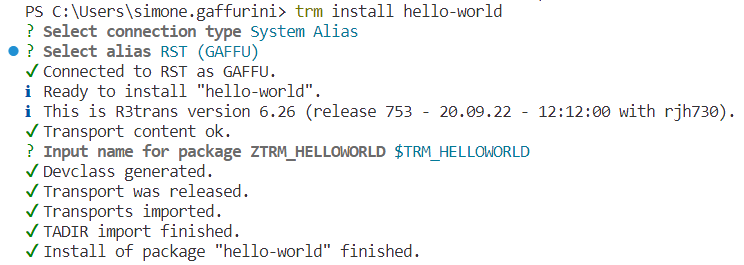
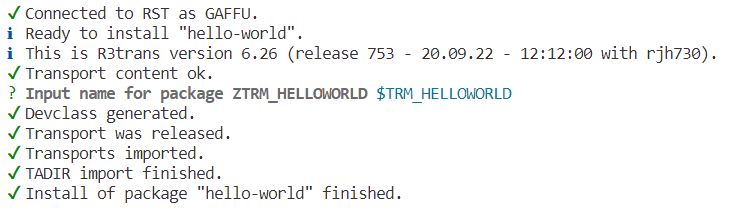
Update docs

Changed region(s): [[0.0, 0.0, 0.9959, 1.0], [0.5734, 0.2286, 0.9959, 0.2857]]

diff --git a/client/docs/examples/install.md b/client/docs/examples/install.md
@@ -45,7 +45,15 @@ you'll be prompted with
 
 The `hello-world` package should now be installed into your system.
 
+<p align="center">
+  <img src="/_media/sample_install.png" />
+</p>
+
 You can view it with transaction `SE80`, and test the program `ZTRM_HELLOWORLD` with transaction `SE38`.
+
+<p align="center">
+  <img src="/_media/sample_install_se80.png" />
+</p>
 
 ## List and view command
 
@@ -57,11 +65,21 @@ Other commands you can try after installing the `hello-world` package are **list
 
     After connecting to the system (like we did earlier) you should see the list of packages.
 
+    <p align="center">
+        <img src="/_media/sample_list.png" />
+    </p>
+
 - With the [view command](https://docs.trmregistry.com/#/client/commands?id=view-package-on-a-system) you'll have more details about a package, like its manifest values.
 
     Run `trm view hello-world`
 
     and connect to your development system again to see the command in action.
+
+    <p align="center">
+        <img src="/_media/sample_view.png" />
+    </p>
+
+    Notice how it's also comparing the installed version with the latest available on the registry.
 
 # Part 2: TRM in your landscape
 
@@ -85,12 +103,27 @@ Once a package is installed with TRM, the transports across the landscape is **d
 
 Take a look at the install log and you'll see that a new transport has been generated.
 
+<p align="center">
+    <img src="/_media/sample_reinstall.png" />
+</p>
+
 > If you've lost the install log, check transaction `SE01`
 
 It contain all of the objects in the TRM package and it can be used for transport across the landscape.
 
+Before releasing, **make sure the package transport layers are correct and manually change the transport target system if necessary**.
+
 1. Release and import the transport into your QUA system.
+
+<p align="center">
+    <img src="/_media/sample_transport.png" />
+</p>
+
 2. Run the list or view command with QUA system connection.
+
+<p align="center">
+    <img src="/_media/sample_view_after_transport.png" />
+</p>
 
 You'll notice that, although trm-server is not installed into QUA, TRM is capable of detecting that the `hello-world` package is installed.
 
@@ -99,6 +132,10 @@ You'll notice that, although trm-server is not installed into QUA, TRM is capabl
 The [compare command](https://docs.trmregistry.com/#/client/commands?id=compare-package-between-multiple-systems) can be used to compare the same packages between 2 or more systems.
 
 In this case, run `trm compare hello-world` and, when asked, connect to both DEV and QUA.
+
+<p align="center">
+    <img src="/_media/sample_compare.png" />
+</p>
 
 You should see that in both systems you have the same version of `hello-world` installed.
 
